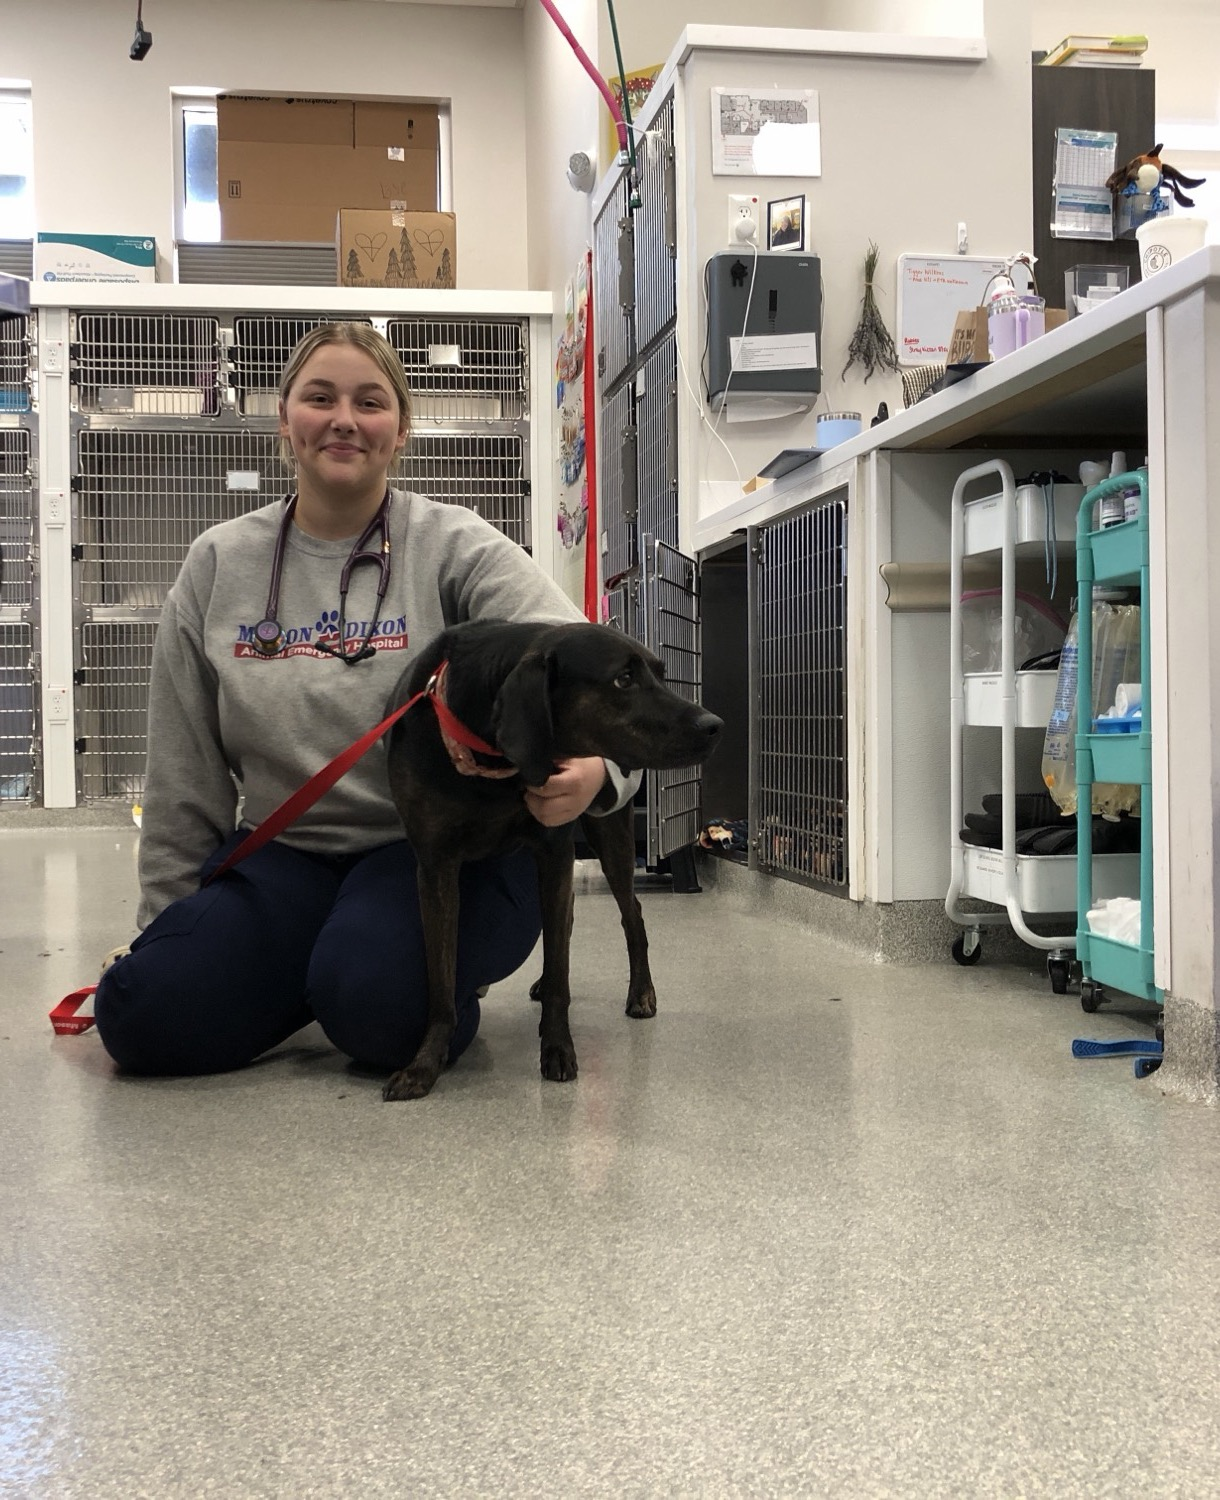
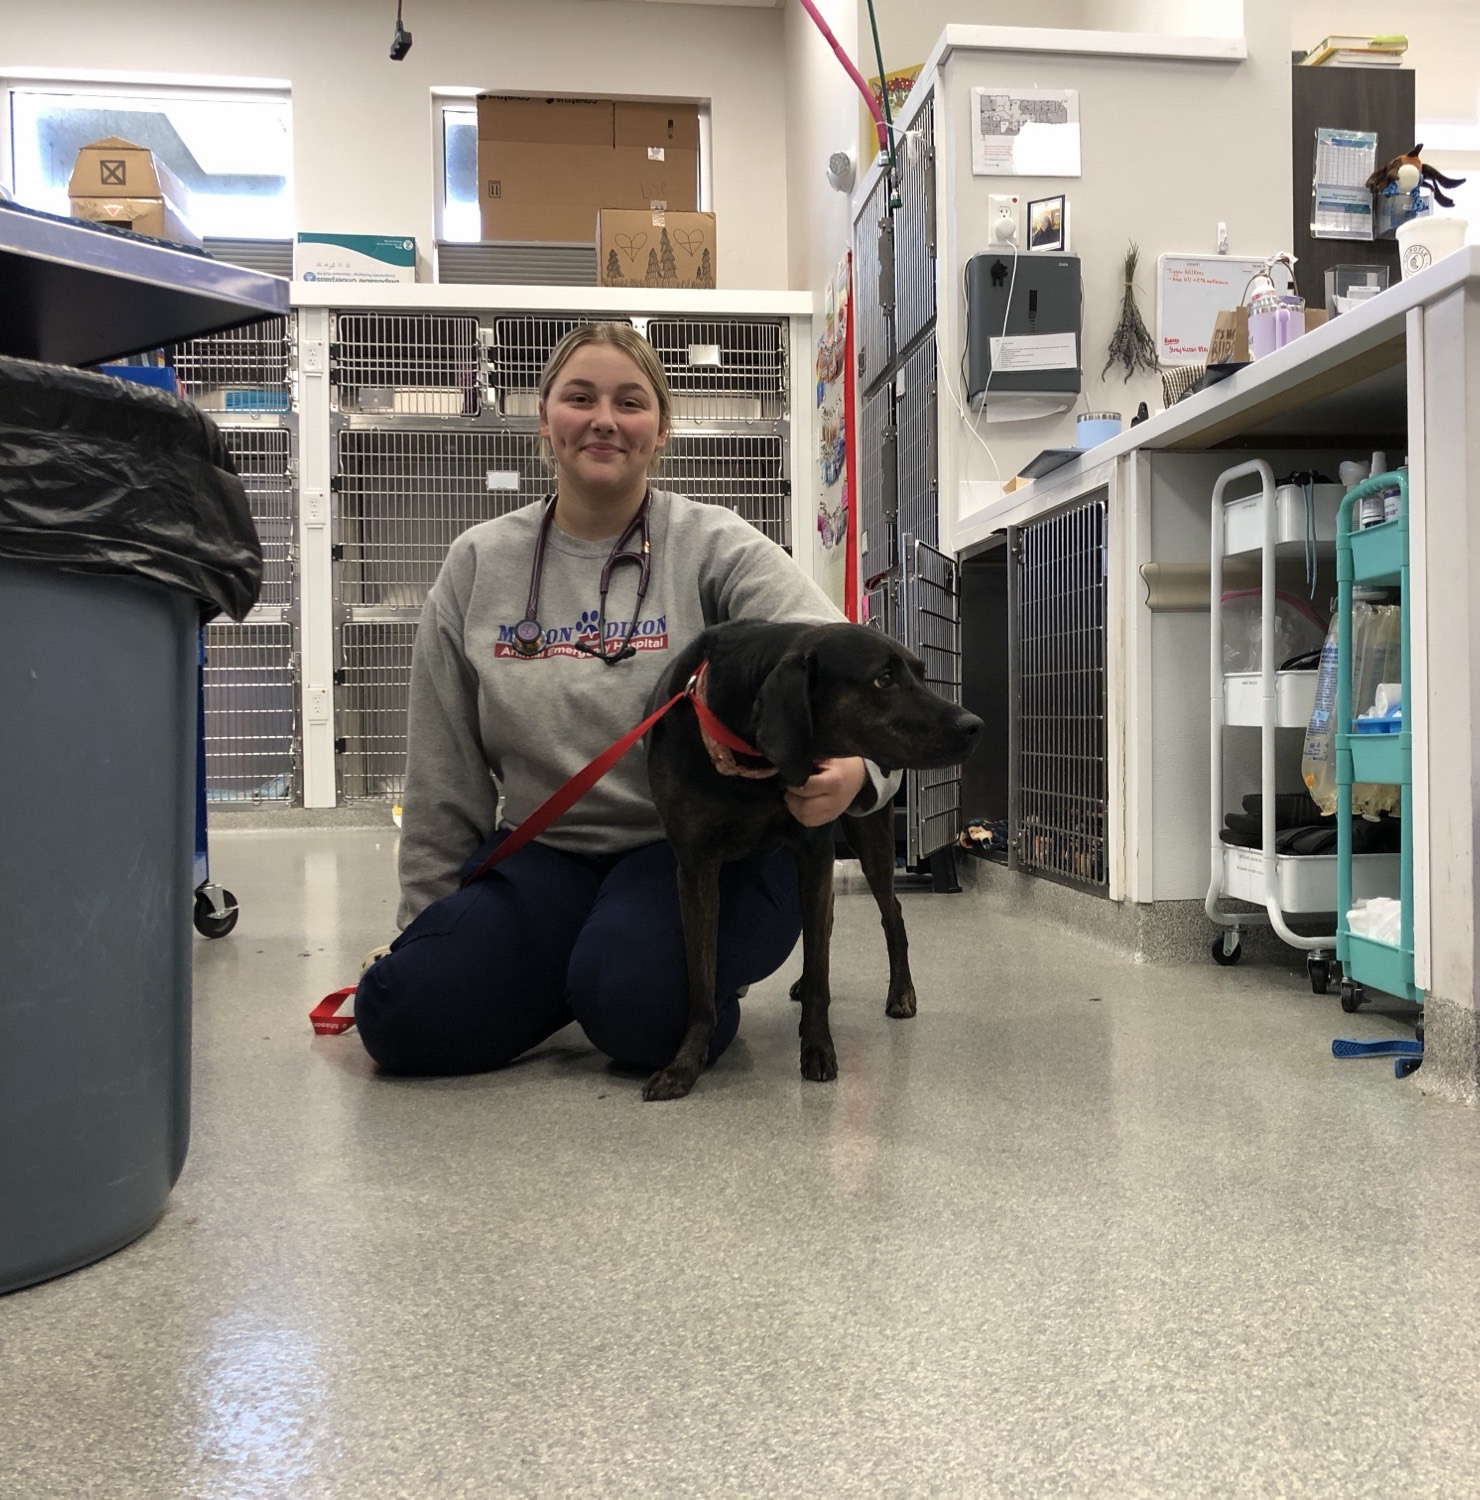
Band: smooth eased fade on the photo; trash-free crop on mobile

diff --git a/index.html b/index.html
@@ -10,7 +10,7 @@
 <link rel="preconnect" href="https://fonts.gstatic.com" crossorigin>
 <link rel="stylesheet" href="https://fonts.googleapis.com/css2?family=Be+Vietnam+Pro:wght@500;600;700;800&family=Inter:ital,wght@0,400;0,500;0,600;1,400&display=swap">
 <link rel="stylesheet" href="header.css?v=2">
-<link rel="stylesheet" href="styles.css?v=40">
+<link rel="stylesheet" href="styles.css?v=42">
 <script>document.documentElement.classList.add('js');</script>
 </head>
 <body>
@@ -468,7 +468,7 @@
 
 <!-- ============ X-RAY BAND ============ -->
 <section class="xray-band band-slim" aria-label="Communication with pet owners">
-  <img src="assets/team-treatment.jpg?v=3" alt="A Mason Dixon team member kneeling with a dog patient in the treatment area" loading="lazy" width="1220" height="1500">
+  <picture><source media="(max-width: 767px)" srcset="assets/team-treatment-m.jpg?v=1"><img src="assets/team-treatment.jpg?v=4" alt="A Mason Dixon team member kneeling with a dog patient in the treatment area" loading="lazy" width="1480" height="1500"></picture>
   <div class="xray-caption">
     <div class="container">
       <p>We communicate clearly with pet owners throughout treatment and coordinate with primary care veterinarians when follow-up care is needed.</p>

diff --git a/styles.css b/styles.css
@@ -169,7 +169,7 @@ svg{flex-shrink:0}
 
 /* ---------- X-ray band ---------- */
 .xray-band{position:relative;height:clamp(300px,28vw,440px);overflow:hidden;background:var(--navy-900)}
-.xray-band img{position:absolute;right:0;top:0;width:min(46%,1200px);height:100%;object-fit:cover;object-position:50% 30%;-webkit-mask-image:linear-gradient(to right,transparent 0%,rgba(0,0,0,.35) 14%,#000 30%);mask-image:linear-gradient(to right,transparent 0%,rgba(0,0,0,.35) 14%,#000 30%)}
+.xray-band img{position:absolute;right:0;top:0;width:min(58%,1500px);height:100%;object-fit:cover;object-position:50% 30%;-webkit-mask-image:linear-gradient(to right,transparent 0%,rgba(0,0,0,.02) 7%,rgba(0,0,0,.07) 14%,rgba(0,0,0,.22) 21%,rgba(0,0,0,.48) 27%,rgba(0,0,0,.8) 32%,#000 37%);mask-image:linear-gradient(to right,transparent 0%,rgba(0,0,0,.02) 7%,rgba(0,0,0,.07) 14%,rgba(0,0,0,.22) 21%,rgba(0,0,0,.48) 27%,rgba(0,0,0,.8) 32%,#000 37%)}
 .xray-caption{position:absolute;inset:0;z-index:1;display:flex;align-items:center;color:#fff}
 .xray-caption p{max-width:600px;font-family:var(--font-display);font-weight:600;font-size:clamp(18.4px,1.5vw,24px);letter-spacing:-.02em;line-height:1.35}
 @media (max-width:767px){
